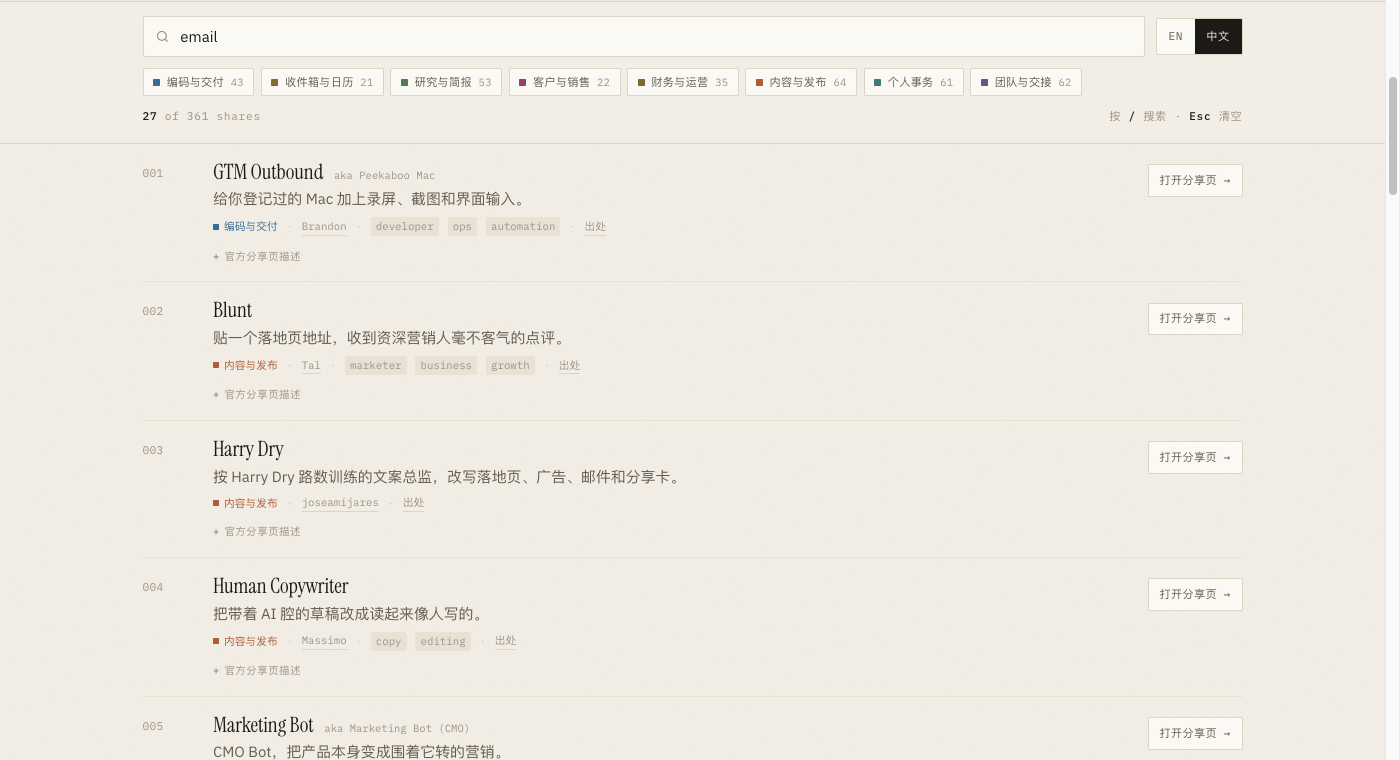
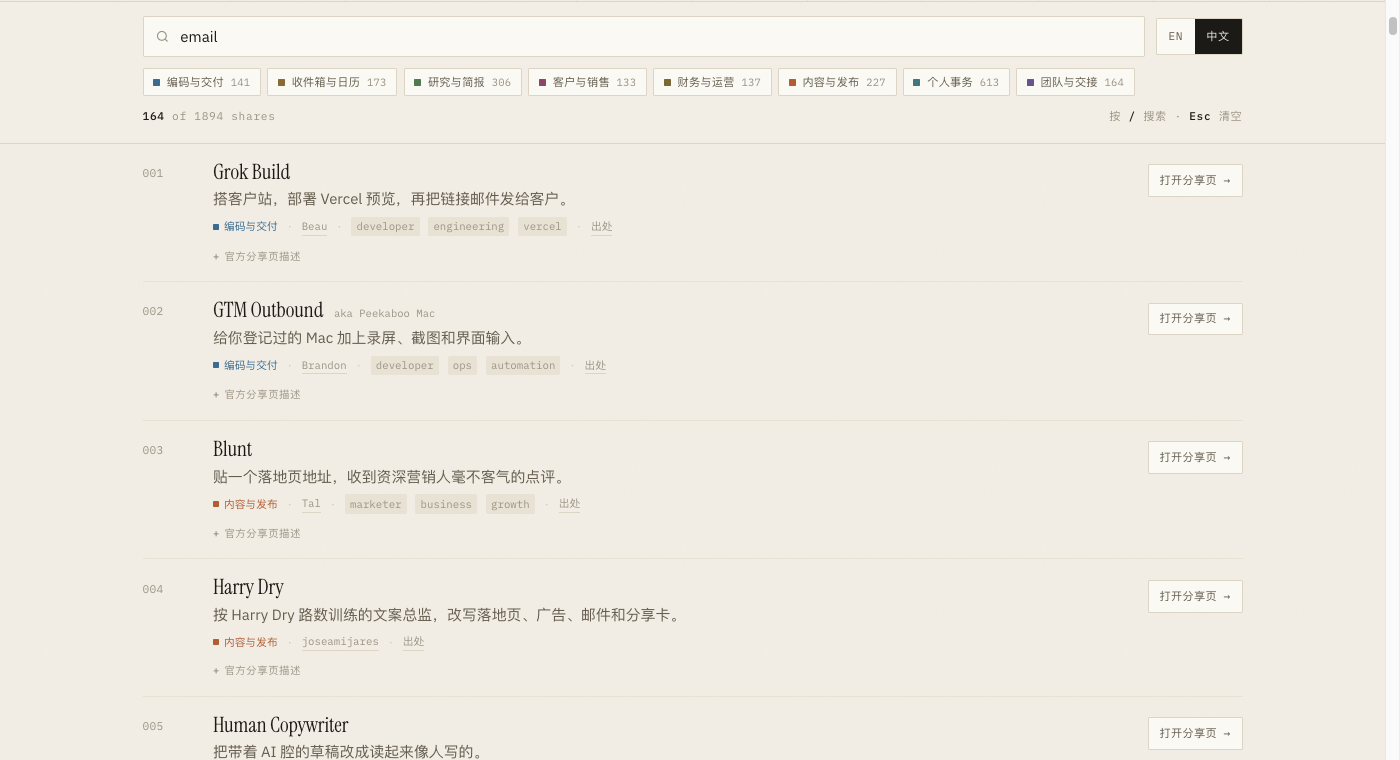
docs: refresh the screenshots, which still showed 361
The three images in docs/screenshots were all shot on 2026-09-01 and carry
live counts baked into the pixels. The catalog has since grown to 1894, so
every one of them was advertising a number 5.2x too small — the README's site
section showed 361, and so did the social preview card, which is the first
thing anyone sees when the repo link is pasted into X or Slack.

Reshot all three against current data: 1894 live / 1894 bilingual / 1024 with
origin / 6 retired, checked 2026-09-22. social-card.png verified at exactly
1280x640, since X and Slack crop anything that is not 2:1.

Added scripts/shoot_screenshots.md with the viewports and the pre-shot step
that disables the row animation, so this is a command to follow rather than
something to work out again.

Deliberately not automated in the daily job: rendering needs a browser, and
committing a ~350 KB PNG every day would add ~120 MB of history a year to
restate a number the README already prints as text. Refreshing every few
weeks keeps the drift small enough not to mislead.

diff --git a/scripts/shoot_screenshots.md b/scripts/shoot_screenshots.md
@@ -1,0 +1,41 @@
+# Refreshing the screenshots
+
+`docs/screenshots/*.png` show live counts, so they go stale as the catalog
+grows. On 2026-09-22 they still read 361 while the catalog held 1894 — off by
+5.2x, which made the repo look both small and abandoned.
+
+They are **not** regenerated by the daily job. Rendering them needs a browser,
+and committing a fresh ~350 KB PNG every day would add ~120 MB of history a
+year to show a number the README already states in text. Refresh them by hand
+when the count has moved enough to look wrong — in practice every few weeks.
+
+## Steps
+
+```bash
+cp catalog.json site/catalog.json          # the site reads its own copy
+python3 -m http.server 8750                # from the repo root
+```
+
+Then, in a browser driven at the exact viewport (the sizes matter — the social
+card is cropped to 2:1 by X, Slack and GitHub):
+
+| File | URL | Viewport | Notes |
+| --- | --- | --- | --- |
+| `site-desktop.png` | `/site/index.html` | 1400x1180 | scrolled to top |
+| `site-chinese.png` | `/site/index.html#q=email&lang=zh` | 1400x760 | scrolled past the header |
+| `social-card.png` | `/docs/social-card.html` | **1280x640** | must stay exactly 2:1 |
+
+Before each shot, disable the row animation so nothing is captured mid-fade:
+
+```js
+document.documentElement.style.scrollBehavior = 'auto';
+document.querySelectorAll('li.row').forEach(r => r.style.animation = 'none');
+```
+
+## After
+
+- `site-desktop.png` and `site-chinese.png` are referenced by the READMEs and
+  need no further action.
+- `social-card.png` must be **uploaded by hand** at Settings → General → Social
+  preview. GitHub exposes no API for it, so a commit alone does not change what
+  X or Slack shows when someone pastes the repo link.

diff --git a/docs/method.md b/docs/method.md
@@ -132,6 +132,8 @@ python3 scripts/check_links.py --write     # also update link_status/checked and
 python3 scripts/build_readme.py            # regenerate both READMEs from catalog.json
 ```
 
+The screenshots in `docs/screenshots/` show live counts and therefore go stale as the catalog grows — they are refreshed by hand, not by the daily job, because rendering them needs a browser and a daily ~350 KB PNG would add ~120 MB of history a year. Steps: [`scripts/shoot_screenshots.md`](../scripts/shoot_screenshots.md).
+
 The social preview card is data-driven too. [`docs/social-card.html`](social-card.html) reads the same `catalog.json`, so the figures on it cannot drift from the catalog:
 
 ```bash
